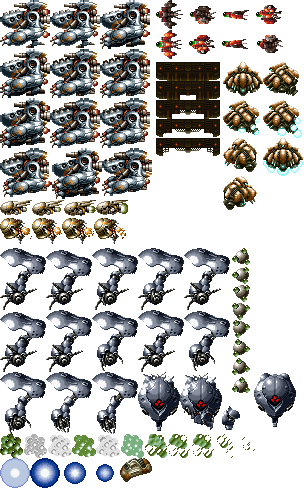
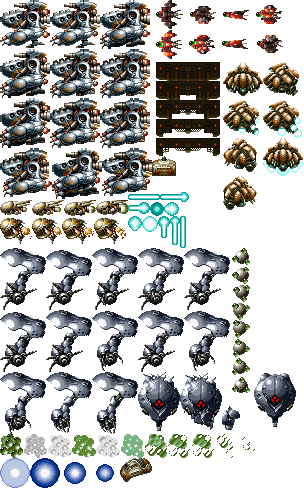
adding outdoor turret

Changed region(s): [[0.4145, 0.3607, 0.6217, 0.511], [0.5033, 0.3006, 0.5921, 0.3607]]

diff --git a/LastResort/Outdoor_turret.cpp b/LastResort/Outdoor_turret.cpp
@@ -1,0 +1,26 @@
+//#include "Application.h"
+//#include "Outdoor_turret.h"
+//#include "ModuleCollision.h"
+//#include "ModuleStage05.h"
+//
+//Enemy_Basic::Enemy_Basic(int x, int y, POWERUP_TYPE pu_t) : Enemy(x, y, pu_t)
+//{
+//	for (int i = 0; i <= 96; i += 32)
+//	{
+//		basicenemy.PushBack({ i,200,32,16 });
+//	}
+//	basicenemy.speed = 0.12f;
+//
+//	animation = &basicenemy;
+//
+//	collider = App->collision->AddCollider({ x, y, 32, 16 }, COLLIDER_TYPE::COLLIDER_ENEMY, (Module*)App->enemies);
+//	initialY = y - App->stage05->spawnPos.y;//We get the y position
+//}
+//
+//void Enemy_Basic::Move()
+//{
+//
+//	position.x -= 1;
+//	position.y = initialY + App->stage05->spawnPos.y;//We fix the y position to be the same as the background
+//}
+//

diff --git a/LastResort/Outdoor_turret.h b/LastResort/Outdoor_turret.h
@@ -1,0 +1,18 @@
+//#ifndef __ENEMY_BASIC_H__
+//#define __ENEMY_BASIC_H__
+//
+//#include "Enemy.h"
+//
+//class Enemy_Basic : public Enemy
+//{
+//private:
+//	Animation basicenemy;
+//	int initialY;
+//
+//public:
+//	Enemy_Basic(int x, int y, POWERUP_TYPE pu_t);
+//	void Move();
+//};
+//
+//#endif // __ENEMY_BASIC_H__
+//
